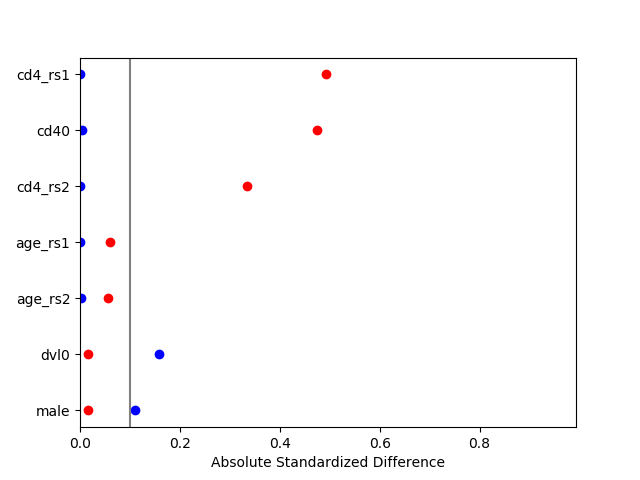
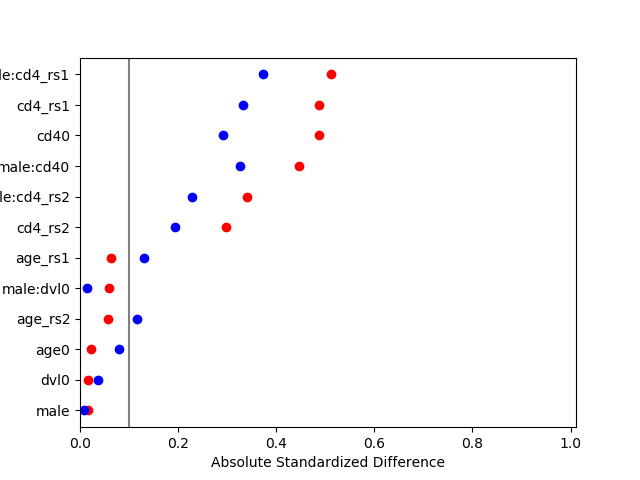
Update to website: IPTW diagnostics and custom model update

diff --git a/docs/Causal.rst b/docs/Causal.rst
@@ -262,9 +262,10 @@ logistic regression model to predict ``art`` and generate the weights
 
 .. code:: python 
 
-   model = 'male + age0 + age_rs1 + age_rs2 + cd40 + cd4_rs1 + cd4_rs2 + dvl0'
    ipt = IPTW(df, treatment='art', stabilized=True)
-   ipt.regression_models(model)
+   ipt.regression_models('male + age0 + age_rs1 + age_rs2 + cd40 + cd4_rs1 + cd4_rs2 + dvl0 + male:dvl0 + '
+                         'male:cd40 + male:cd4_rs1 + male:cd4_rs2 + male:age0 + male:age_rs1 + male:age_rs2',
+                         custom_model_denominator=log)
    ipt.fit()
    df['iptw'] = ipt.Weight
    df.iptw.describe()
@@ -280,11 +281,12 @@ conservative) confidence interval. We will do this through ``statsmodels``
    
    ind = sm.cov_struct.Independence()
    f = sm.families.family.Binomial(sm.families.links.identity) 
-   linrisk = smf.gee('dead ~ art',df['id'],df,cov_struct=ind,family=f,weights=df['iptw']).fit()
+   linrisk = smf.gee('dead ~ art', df['id'], df, cov_struct=ind, family=f, weights=df['iptw']).fit()
    print(linrisk.summary())
 
 
-Note that ``statsmodels`` will generate a ``DomainWarning`` for log-binomial or identity-binomial models.
+Note that ``statsmodels`` will generate a ``DomainWarning`` for log-binomial or identity-binomial models. The estimated
+RD = -0.097 (95% CL: -0.16, -0.03).
 
 In this example, IPTW are stabilized weights and weighted to reflect the entire population (comparing everyone exposed
 vs. everyone unexposed). Stabilized weights are the default. Unstabilized weights can be requested by
@@ -335,9 +337,9 @@ visualizing the absolute standardized differences.
 .. image:: images/zepid_iptbalance.png
 
 As you can see in the graph, most of the variables appear to be balanced in the weighted data set. However, diagnosis
-viral load (dvl) and gender (male) seem to be imbalanced somewhat (above a absolute standardized difference of 0.1). We
-might consider other functional forms to achieve better balance. Other ways to achieve better balance are permutation
-weights (to be implemented in the future).
+CD4 count is still unbalanced to be imbalanced somewhat (above a absolute standardized difference of 0.1). We
+might consider other model specifications to achieve better balance. Other ways to achieve better balance are
+permutation weights (to be implemented in the future).
 
 For a publication-quality graph, I recommend using ``standard_mean_differences`` to calculate the standard mean
 differences then using that output to create a new graphic. The above plot functionality is meant to generate a quick
@@ -363,14 +365,62 @@ the standard mean differences accordingly
 To calculate the standardized mean difference for a single variable, you can use ``IPTW.standardized_difference``.
 *Note* that the variable type must be specified for this function
 
-.. code:: python
-
-  ipt.standardized_difference('male', var_type='binary')
-  ipt.standardized_difference('cd40', var_type='continuous')
-
 For further discussion on IPTW diagnostics, I direct you to
 `Austin PC and Stuart EA <https://doi.org/10.1002/sim.6607>`_ and
 `Cole SR and Hernan MA <https://www.ncbi.nlm.nih.gov/pmc/articles/PMC2732954/>`_
+
+Machine Learning
+~~~~~~~~~~~~~~~~
+``IPTW`` additionally supports the usage of machine learning models to estimate inverse probability weights. As long as
+GEE is used to obtain confidence intervals, IPTW with machine learning will produce valid confidence intervals. IPTW
+confidence intervals obtained via bootstrapping will be invalid if certain machine learning algorithms are used. In this
+example I will demonstrate ``sklearn``'s ``LogisticRegression`` with a L2 penalty.
+
+First we load the data and the necessary functions
+
+.. code:: python
+
+  from sklearn.linear_model import LogisticRegression
+  import statsmodels.api as sm
+  import statsmodels.formula.api as smf
+  from statsmodels.genmod.families import family,links
+  from zepid import load_sample_data,spline
+  from zepid.causal.ipw import IPTW
+
+  log2 = LogisticRegression(penalty='l2', random_state=103)
+  df = load_sample_data(False)
+  df[['cd4_rs1', 'cd4_rs2']] = spline(df, 'cd40', n_knots=3, term=2, restricted=True)
+  df[['age_rs1', 'age_rs2']] = spline(df, 'age0', n_knots=3, term=2, restricted=True)
+
+We specify the ``IPTW`` class as previously described
+
+.. code:: python
+
+  ipt = IPTW(df, treatment='art', stabilized=True)
+
+Now, when we specify ``regression_models()``, we include the optional parameter ``custom_model_denominator``. This
+parameter uses the specified model to generate predicted probabilities. Currently, only ``sklearn`` models or
+``supylearner`` is supported in the custom models
+
+.. code:: python
+
+  ipt.regression_models('male + age0 + age_rs1 + age_rs2 + cd40 + cd4_rs1 + cd4_rs2 + dvl0 + male:dvl0 + '
+                        'male:cd40 + male:cd4_rs1 + male:cd4_rs2 + male:age0 + male:age_rs1 + male:age_rs2',
+                        custom_model_denominator=log)
+   ipt.fit()
+   df['iptw'] = ipt.Weight
+
+Afterwards, we can estimate the causal effect of treatment using ``statsmodels`` GEE
+
+.. code:: python
+
+   ind = sm.cov_struct.Independence()
+   f = sm.families.family.Binomial(sm.families.links.identity)
+   linrisk = smf.gee('dead ~ art',df['id'], df, cov_struct=ind, family=f, weights=df['iptw']).fit()
+   print(linrisk.summary())
+
+The result from this model is RD = -0.092 (95% CL: -0.16, -0.02), similar to the previous results. However, there is
+still substantial imbalance by CD4 count. In practice, we would look for better models
 
 Augmented Inverse Probability of Treatment Weights
 --------------------------------------------------
